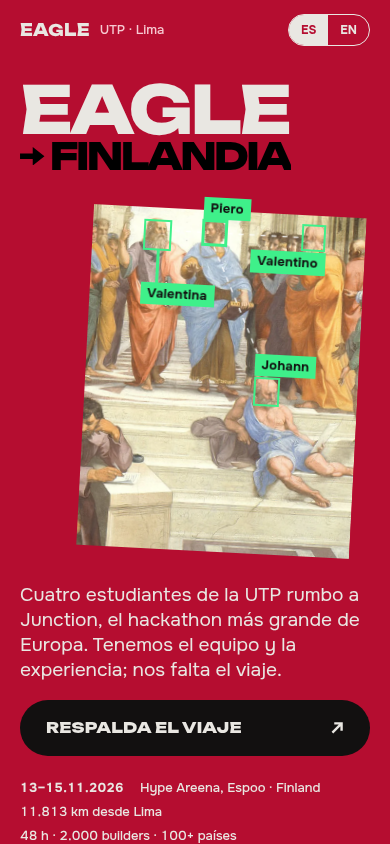
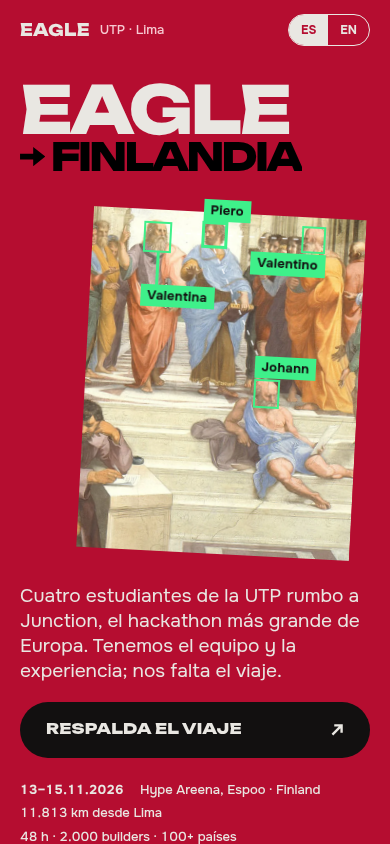
FINLANDIA vuelve a montarse sobre la pintura, como ESPOO

diff --git a/index.html b/index.html
@@ -71,7 +71,7 @@ h1,h2,h3{margin:0;font-family:var(--f-display);font-weight:800;text-transform:up
 .statement{position:relative;z-index:3;font-size:clamp(64px,13.4vw,236px);line-height:.82;letter-spacing:-.035em}
 .statement span{display:block}
 .statement .l1{color:var(--paper)}
-.statement .l2{color:var(--black);display:flex;align-items:center;gap:.08em;font-size:.56em;margin-top:.12em}
+.statement .l2{color:var(--black);display:flex;align-items:center;gap:.08em;font-size:.7em;margin-top:.12em}
 .statement .l2 .arw{width:.66em;height:.5em;flex:none;margin-right:.06em}
 .reveal{display:block;animation:rise .9s var(--ease-out) both}
 .l2 .reveal{animation-delay:.08s}
@@ -123,6 +123,7 @@ h1,h2,h3{margin:0;font-family:var(--f-display);font-weight:800;text-transform:up
   .hero{padding-block:14px 28px}
   .stage{padding-top:36px}
   .statement{font-size:17vw;letter-spacing:-.04em}
+  .statement .l2{font-size:.58em}
   .fragment{position:relative;right:auto;top:auto;width:70vw;max-width:400px;margin:40px 3vw 0 auto;rotate:3deg}
   .fragment figcaption{display:none}
   .fragment .tag .pre{display:none}
